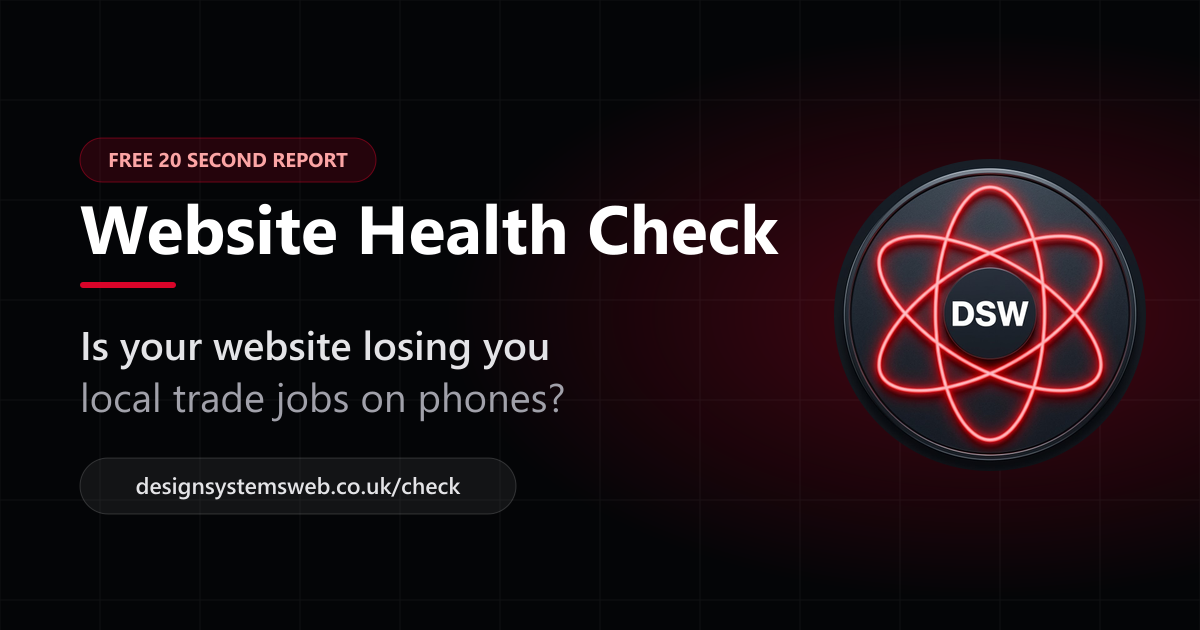
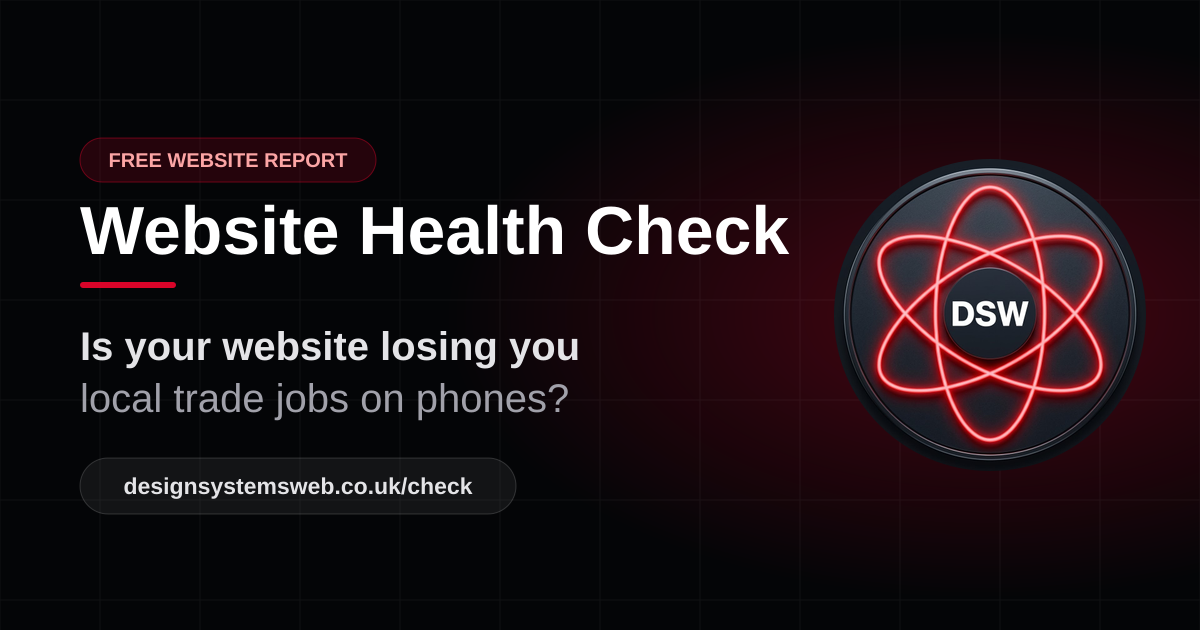
fix(copy): drop the 20 second promise from the website check
- Services: Free Website Check text no longer mentions 20 seconds
- Check section and /check page label: Free Website Check
- /check meta descriptions and share image updated

Claude-Session: https://claude.ai/code/session_01SZ97yLWTC4sMzMgDWZC1Dz

diff --git a/check.html b/check.html
@@ -7,7 +7,7 @@
     <!-- Primary Meta Tags -->
     <title>Free Website Health Check for Trades | Design Systems Web</title>
     <meta name="title" content="Free Website Health Check for Trades | Design Systems Web" />
-    <meta name="description" content="Find out in 20 seconds if your trade website is losing you phone enquiries on Google and Facebook. Free mobile speed and lead readiness check." />
+    <meta name="description" content="Find out if your trade website is losing you phone enquiries on Google and Facebook. Free mobile speed and lead readiness check." />
     <link rel="canonical" href="https://www.designsystemsweb.co.uk/check" />
 
     <!-- Google LocalBusiness Structured Data -->
@@ -43,7 +43,7 @@
     <meta property="og:type" content="website" />
     <meta property="og:url" content="https://www.designsystemsweb.co.uk/check" />
     <meta property="og:title" content="Free Website Health Check for Trades | Design Systems Web" />
-    <meta property="og:description" content="Find out in 20 seconds if your trade website is losing you phone enquiries on Google and Facebook. Free mobile speed and lead readiness check." />
+    <meta property="og:description" content="Find out if your trade website is losing you phone enquiries on Google and Facebook. Free mobile speed and lead readiness check." />
     <meta property="og:image" content="https://www.designsystemsweb.co.uk/og-check.png?v=2026b" />
     <meta property="og:image:secure_url" content="https://www.designsystemsweb.co.uk/og-check.png?v=2026b" />
     <meta property="og:image:type" content="image/png" />
@@ -54,7 +54,7 @@
     <meta name="twitter:card" content="summary_large_image" />
     <meta name="twitter:url" content="https://www.designsystemsweb.co.uk/check" />
     <meta name="twitter:title" content="Free Website Health Check for Trades | Design Systems Web" />
-    <meta name="twitter:description" content="Find out in 20 seconds if your trade website is losing you phone enquiries on Google and Facebook. Free mobile speed and lead readiness check." />
+    <meta name="twitter:description" content="Find out if your trade website is losing you phone enquiries on Google and Facebook. Free mobile speed and lead readiness check." />
     <meta name="twitter:image" content="https://www.designsystemsweb.co.uk/og-check.png?v=2026b" />
     <script>
       if (localStorage.getItem('theme') === 'light' || (!localStorage.getItem('theme') && window.matchMedia('(prefers-color-scheme: light)').matches)) {
@@ -78,7 +78,7 @@
   <body class="bg-slate-50 dark:bg-[#040507] text-[#191c1e] dark:text-white font-sans antialiased selection:bg-[#0ea5e9]/20 selection:text-[#006591]">
     <div id="root">
       <div class="check-shell">
-        <p class="check-kicker">Free 20 Second Check</p>
+        <p class="check-kicker">Free Website Check</p>
         <h1 class="check-title">Is your website losing you trade jobs on phones?</h1>
       </div>
     </div>

diff --git a/src/components/WebsiteHealthCheck.tsx b/src/components/WebsiteHealthCheck.tsx
@@ -299,7 +299,7 @@ export const WebsiteHealthCheck: React.FC<WebsiteHealthCheckProps> = ({ standalo
       >
         <div className="max-w-5xl mx-auto">
           <p className="text-xs font-mono uppercase tracking-widest font-bold text-[#D90429] dark:text-red-400 mb-2">
-            Free 20 Second Check
+            Free Website Check
           </p>
           <h2
             id="health-check-heading"
@@ -402,7 +402,7 @@ export const WebsiteHealthCheck: React.FC<WebsiteHealthCheckProps> = ({ standalo
     >
       <div className="max-w-3xl mx-auto">
         <p className="text-xs font-mono uppercase tracking-widest font-bold text-[#D90429] dark:text-red-400 mb-2">
-          Free 20 Second Check
+          Free Website Check
         </p>
         <h1
           id="health-check-heading"

diff --git a/src/components/HomeSections.tsx b/src/components/HomeSections.tsx
@@ -19,7 +19,7 @@ const DELIVERABLES: Deliverable[] = [
   { title: 'Instant Lead Alerts', text: 'I connect your site directly to your phone so you get a text the second a customer requests a quote.' },
   { title: 'Accessible Design', text: 'Built to accessibility standards, so your site is easy for everyone to use.' },
   { title: 'Website Care (Optional)', text: 'I offer an optional monthly plan to handle your hosting and security updates so you can run your business.' },
-  { title: 'Free Website Check', text: "See what's costing you customers on phones in 20 seconds.", href: '/check' },
+  { title: 'Free Website Check', text: "See what's costing you customers on phones.", href: '/check' },
 ];
 
 export const DeliverablesSection: React.FC = () => (

diff --git a/scripts/generate-og-image.js b/scripts/generate-og-image.js
@@ -81,7 +81,7 @@ async function generate() {
   </g>
 
   <rect x="80" y="138" width="296" height="44" rx="22" fill="#D90429" fill-opacity="0.16" stroke="#D90429" stroke-opacity="0.45" />
-  <text x="228" y="167" text-anchor="middle" font-family="${FONT}" font-size="20" font-weight="700" fill="#fca5a5">FREE 20 SECOND REPORT</text>
+  <text x="228" y="167" text-anchor="middle" font-family="${FONT}" font-size="20" font-weight="700" fill="#fca5a5">FREE WEBSITE REPORT</text>
 
   <text x="80" y="254" font-family="${FONT}" font-size="68" font-weight="700" fill="#ffffff">Website Health Check</text>
   <rect x="80" y="282" width="96" height="6" rx="3" fill="#D90429" />
